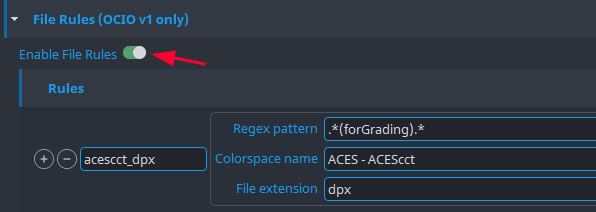
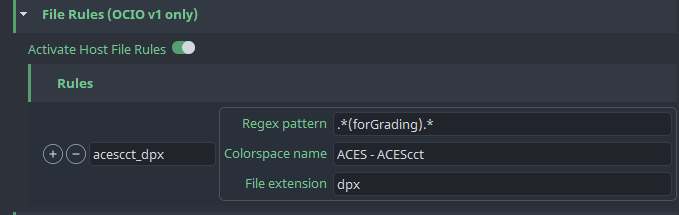
updating Host File rules documentation

diff --git a/website/docs/admin_colorspace.md b/website/docs/admin_colorspace.md
@@ -123,7 +123,7 @@ avoids any hard-coding of paths that may be specific to one particular system.
 
 The example image above shows project level OCIO config file. This way the production is securing that any future changes on studio OCIO config file will not break any of old projects. It is recommended to use the project's OCIO config as starting point for all derivations of host level OCIO configs.
 
-### Activating file rules
+### File rules activation
 File rules are disabled by default. Once it is enabled it is applied to all hosts. It is possible to override them at the [host level](admin_colorspace#configuration-of-host-settings).
 
 ![admin_colorspace_settings_global](assets/settings/admin_colorspace_settings_global_4.png)
@@ -169,10 +169,10 @@ Please note that since representation data might be pointing at older versions, 
 
 We recommend using the `description` field to store information about the changes made to the OCIO config file. The file is in YAML format, and it's possible to use multiple lines in the `description` field only if `|` is used at the end of the line. Additionally, we add the `origin` and `changes` fields to the file. This allows you to track the origin of the OCIO config file and the changes made to it.
 
-### File rules override
+### File rules activation
 ![admin_colorspace_settings_host_filerules](assets/settings/admin_colorspace_settings_host_filerules_1.png)
 
-If global File rules are disabled, the host-level File rules are ignored.
+If the global File rules are disabled, but the host level File rules are enabled, then the host level rules will be applied. However, if the global File rules are enabled and the host level File rules are disabled, then the global rules will be applied.
 
 ## Upgrading from previous versions
 Upgrading may not always be a straightforward process, and we understand that its complexity can be frustrating. We strive to keep the upgrade process as simple as possible and to avoid any breaking changes. However, sometimes it's not possible, and we may need to introduce some breaking changes. This section aims to help you understand what needs to be done after the upgrade.
